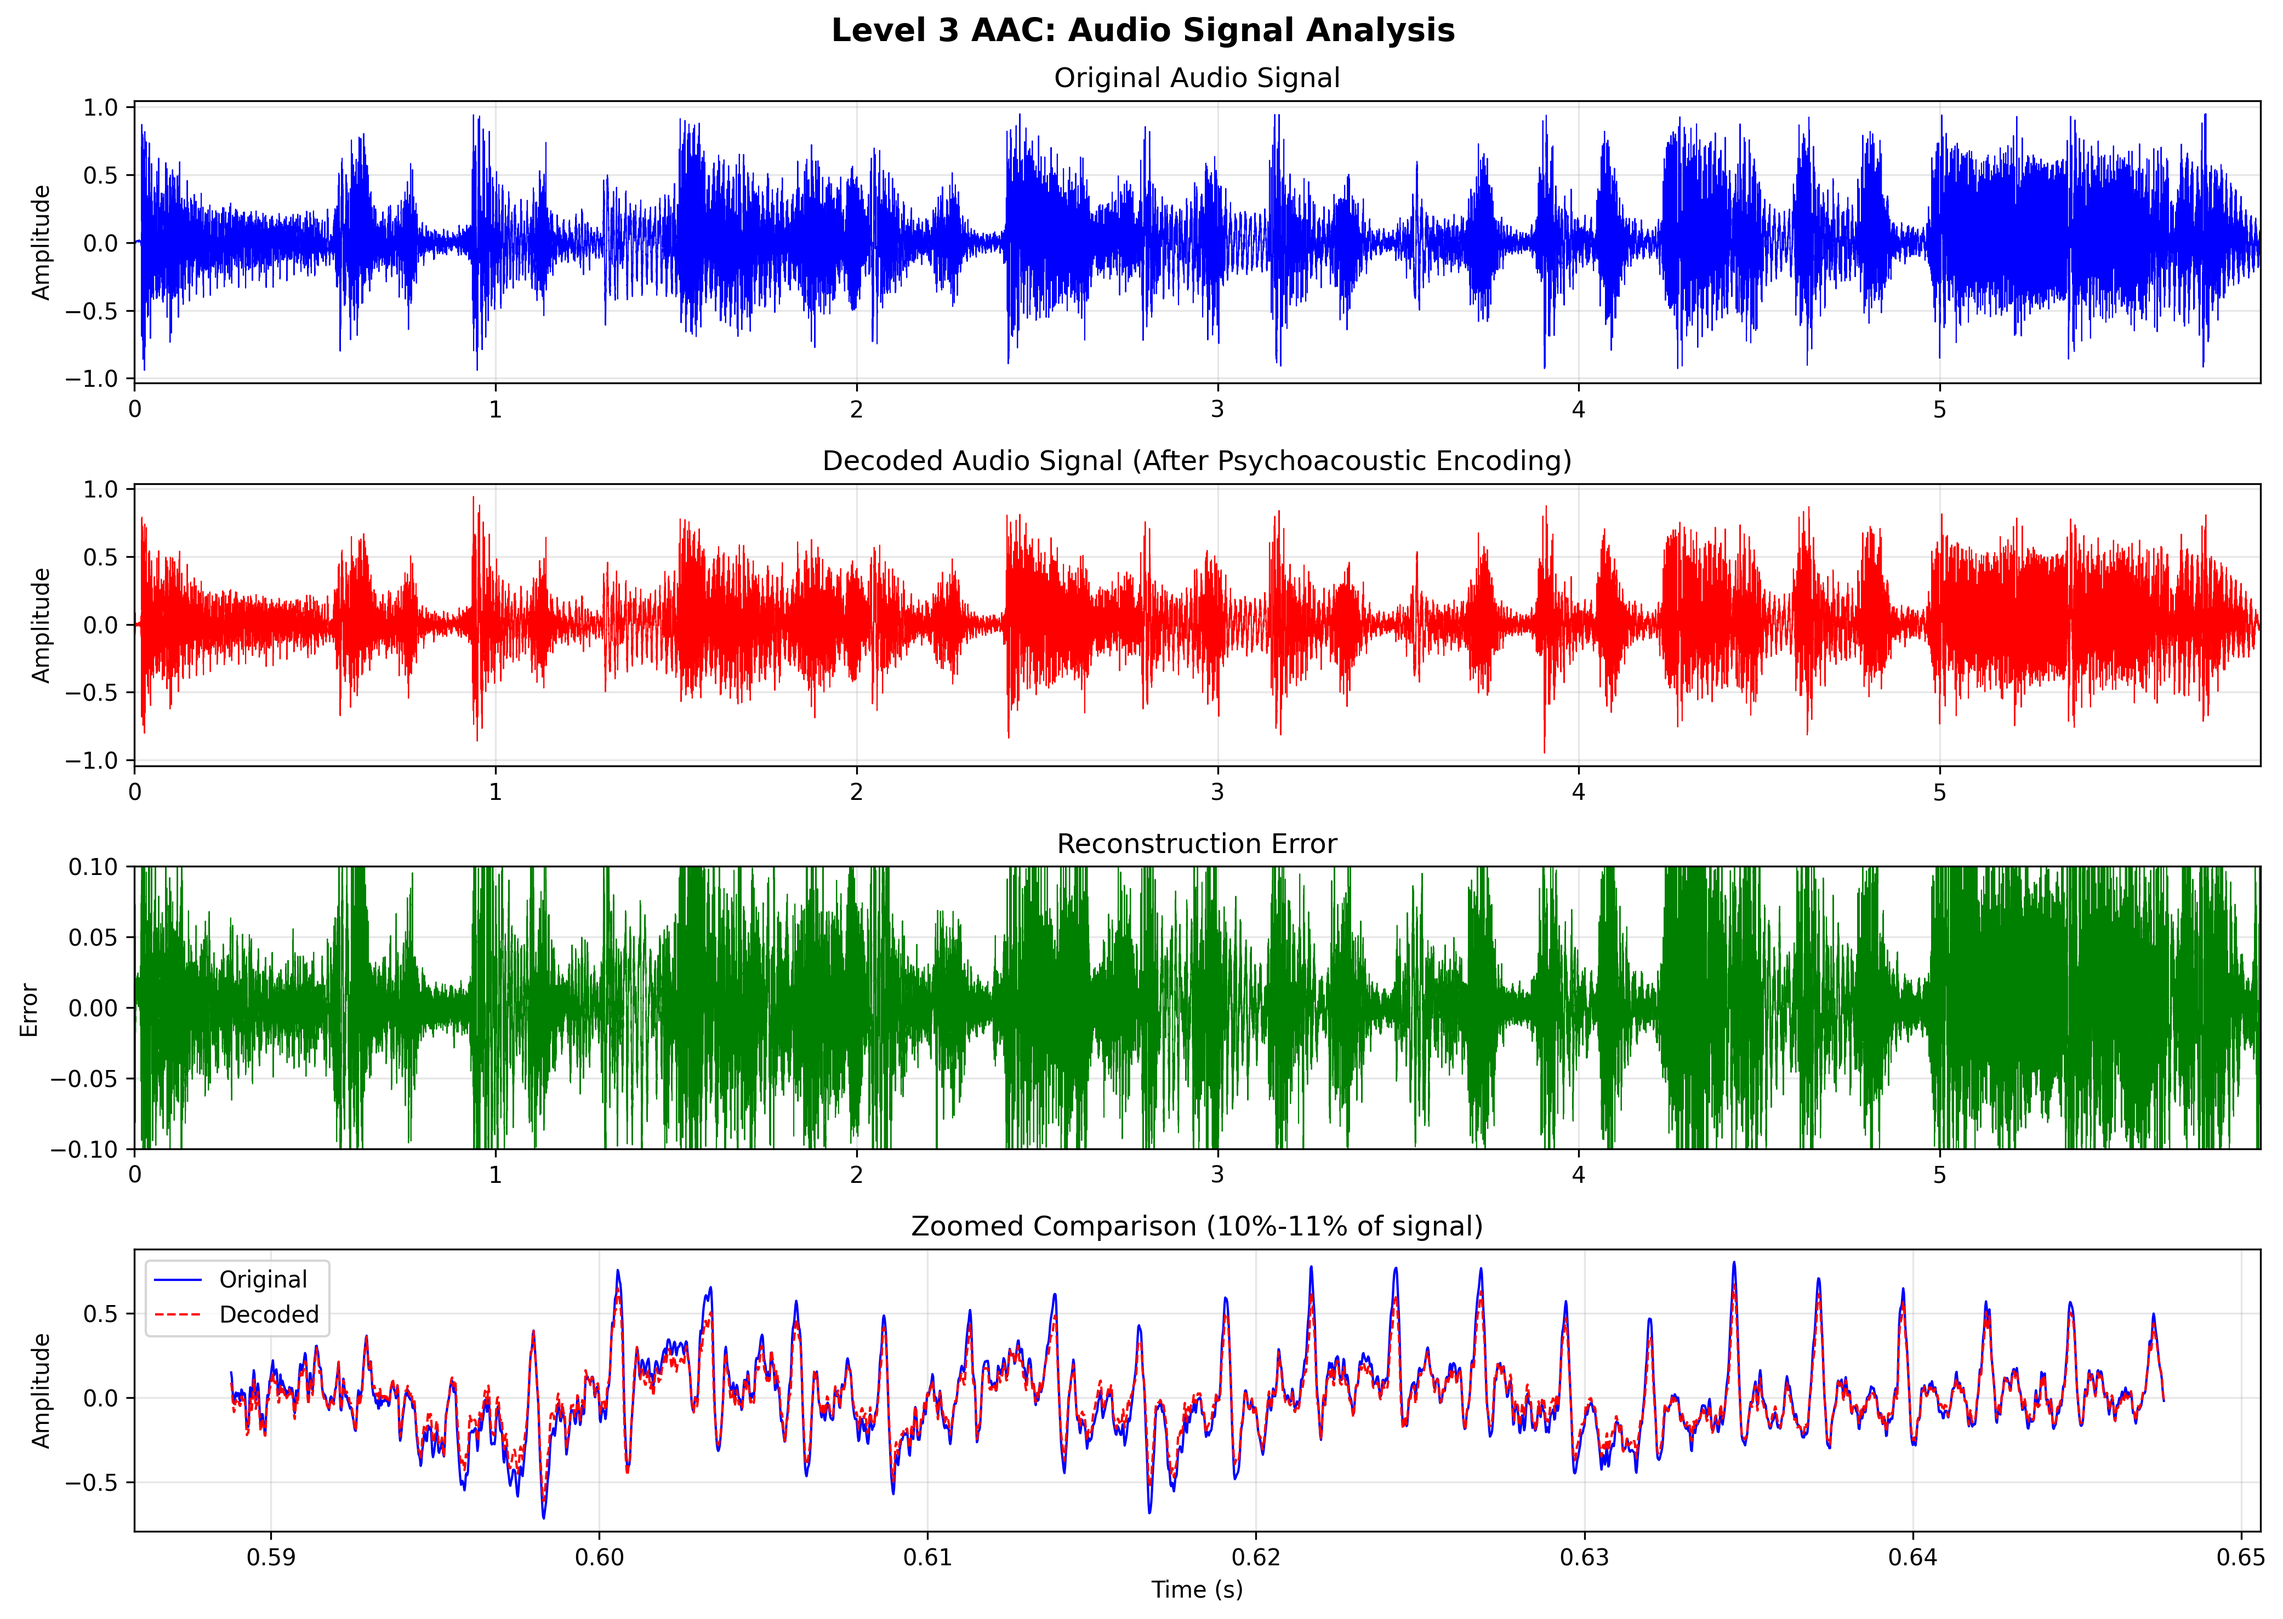
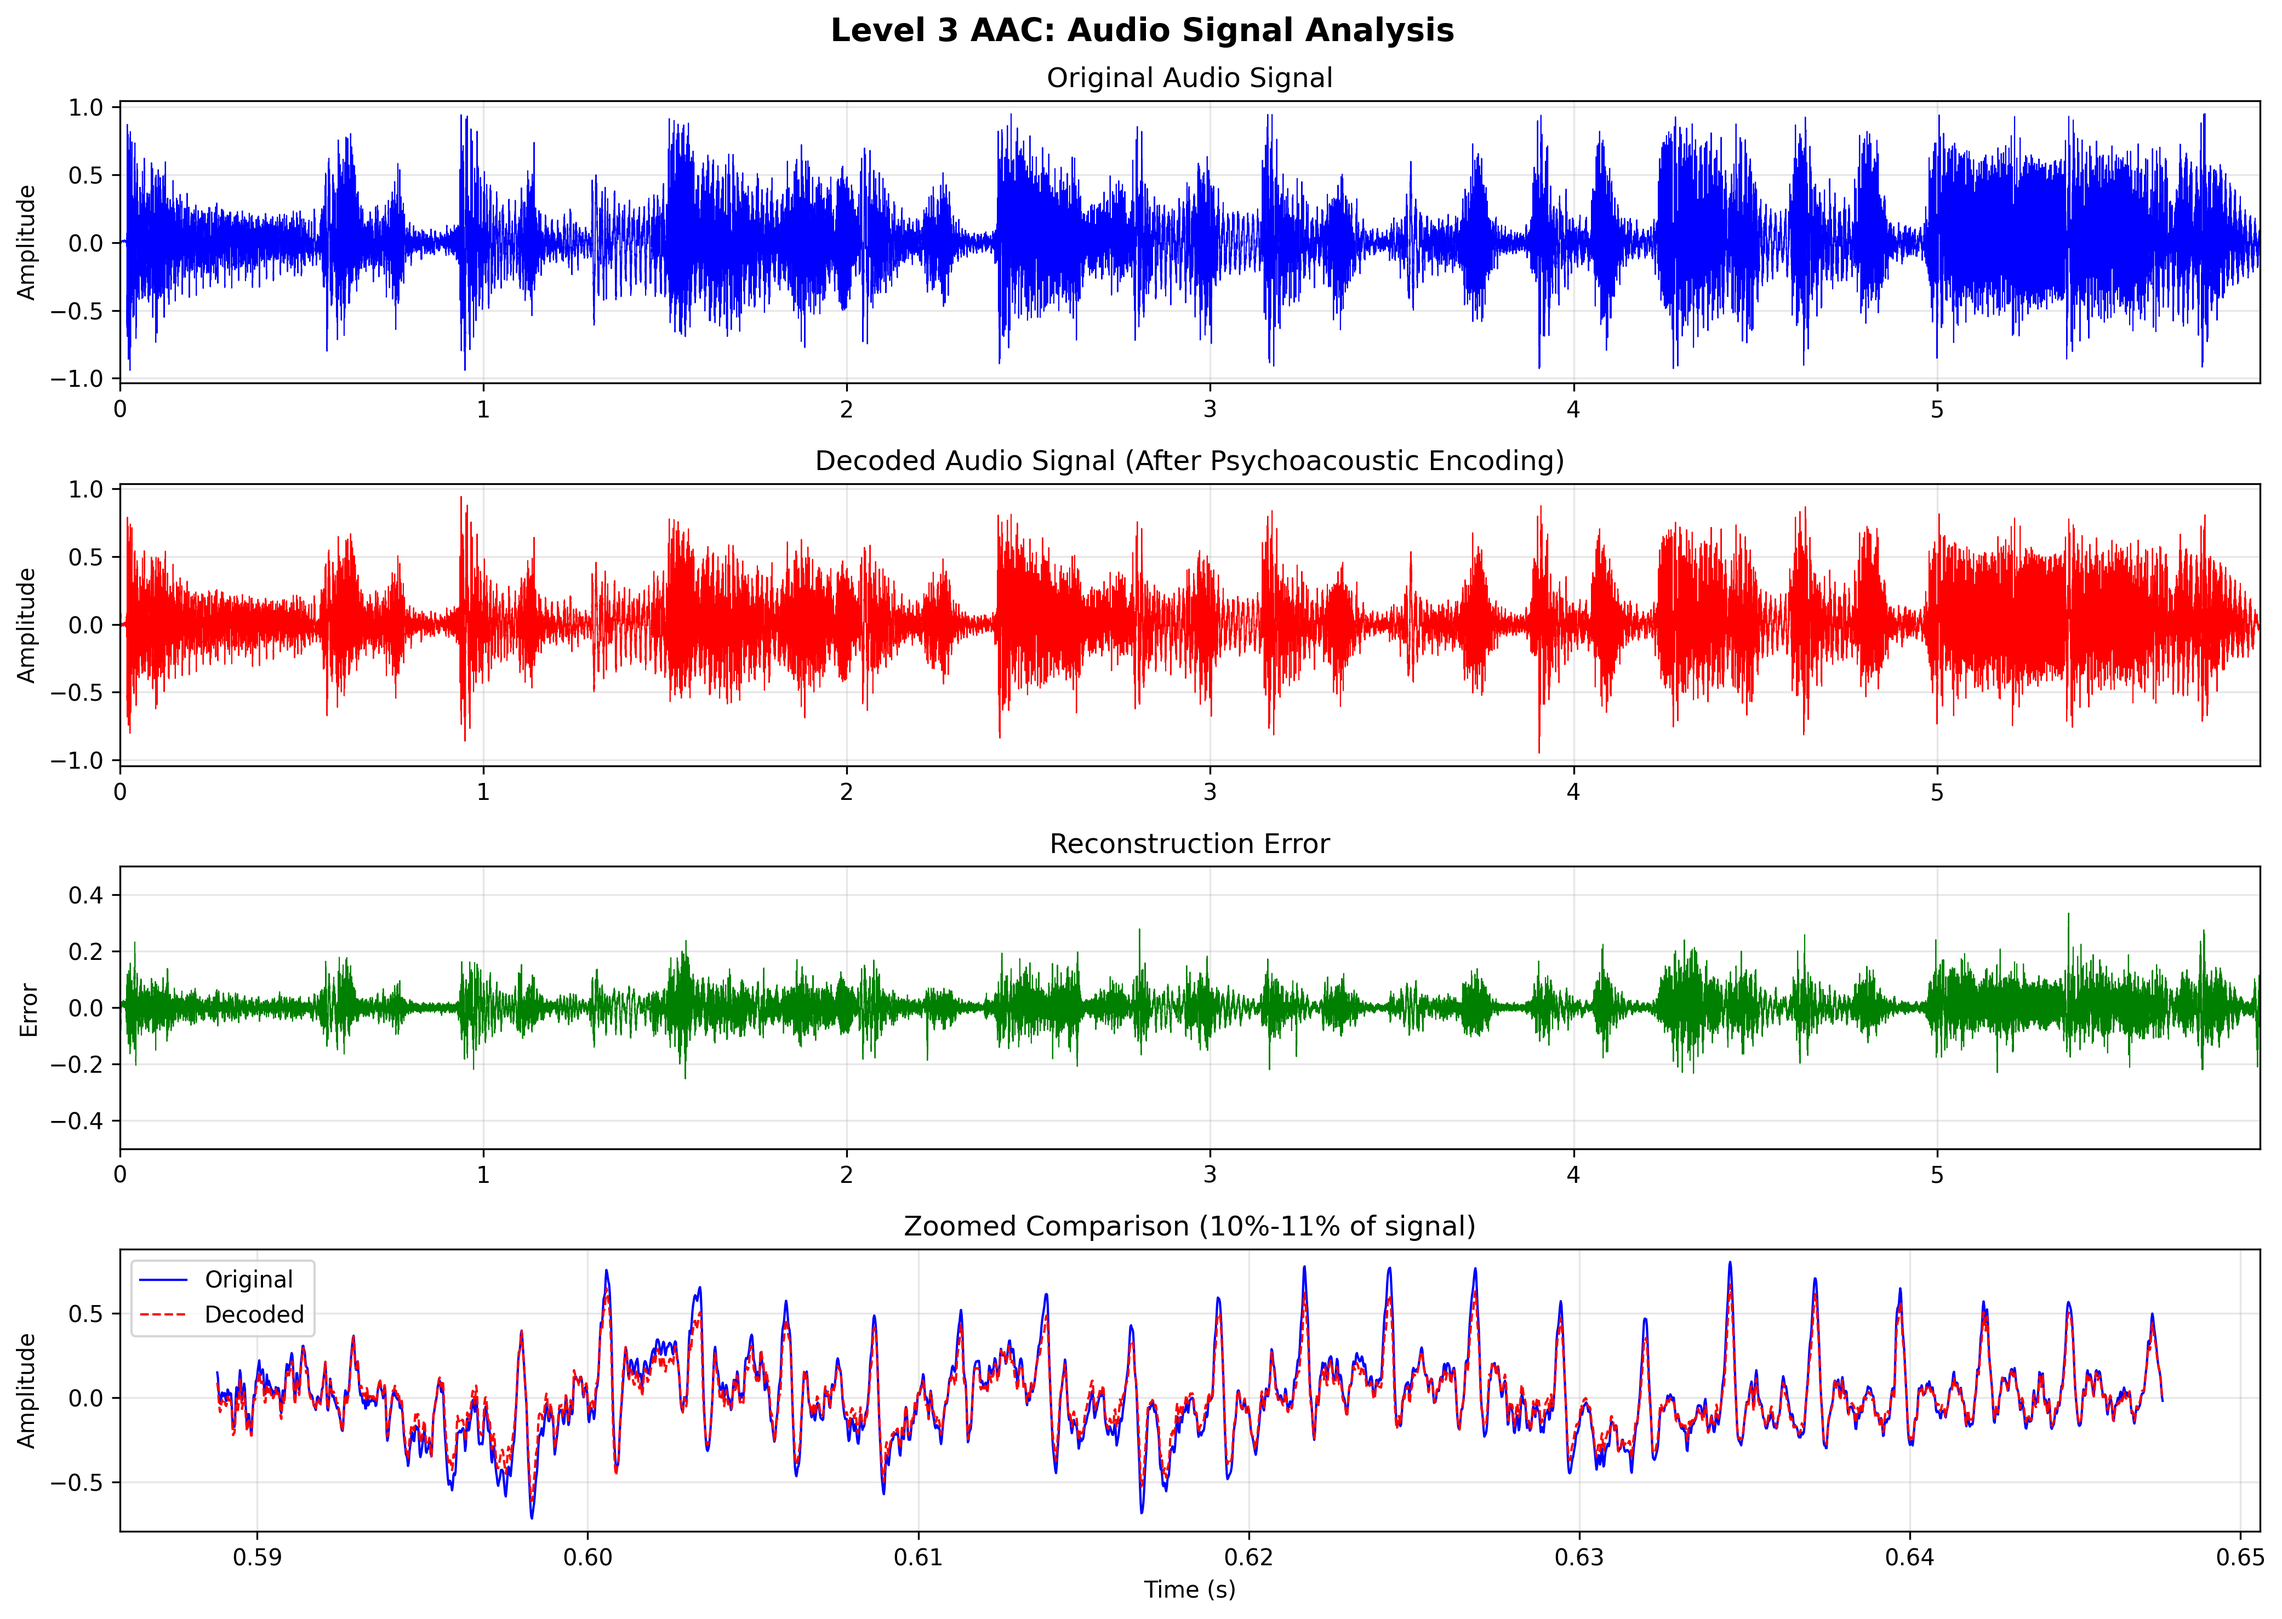
update waveform comparison plotting

diff --git a/level_3/utils_level_3/plotting_utils.py b/level_3/utils_level_3/plotting_utils.py
@@ -4,7 +4,7 @@ import scipy.signal as signal
 from matplotlib.gridspec import GridSpec
 
 
-def plot_audio_waveform(x_original, x_decoded, fs, save_path=None, error_ylim=0.1):
+def plot_audio_waveform(x_original, x_decoded, fs, save_path=None, error_ylim=0.5):
     """
     Plot the original vs decoded audio waveform.
     
